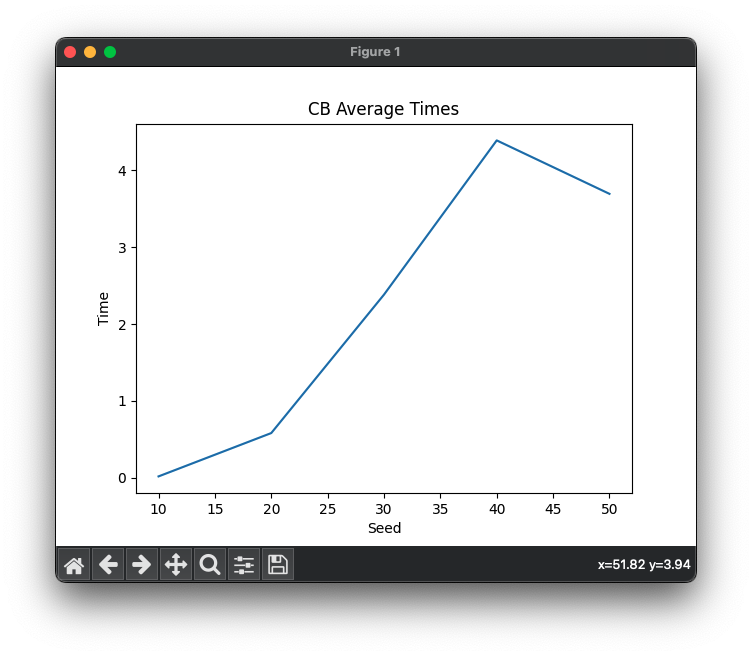
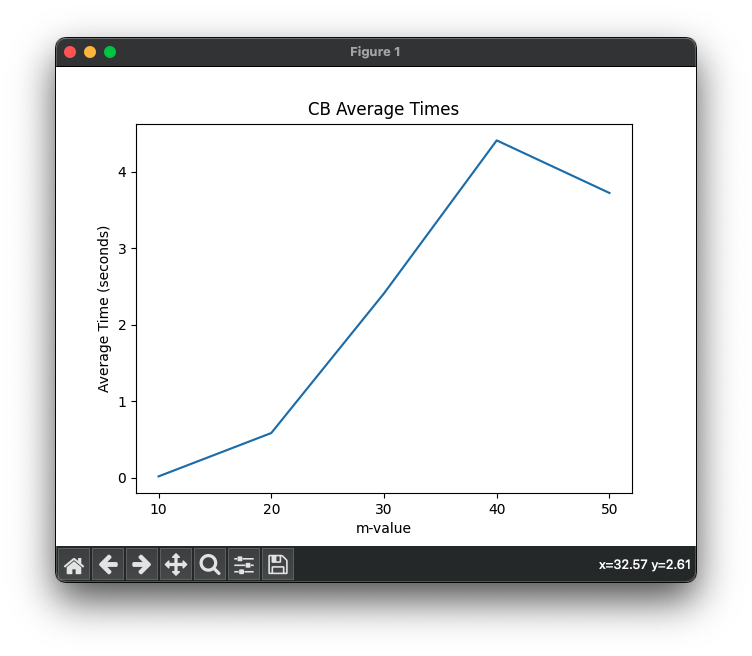
Changed the x-axis intervals

diff --git a/main.py b/main.py
@@ -48,8 +48,9 @@ def main():
     for results, title in zip([bf_avgs, mt_avgs, cb_avgs, na_avgs], ["BF Average Times", "MT Average Times", "CB Average Times", "NA Average Times"]):
         plt.plot([10,20,30,40,50], results)
         plt.title(title)
-        plt.xlabel("Seed")
-        plt.ylabel("Time")
+        plt.xlabel("m-value")
+        plt.ylabel("Average Time (seconds)")
+        plt.xticks([10,20,30,40,50])
         plt.show()
 
 if __name__ == "__main__":
